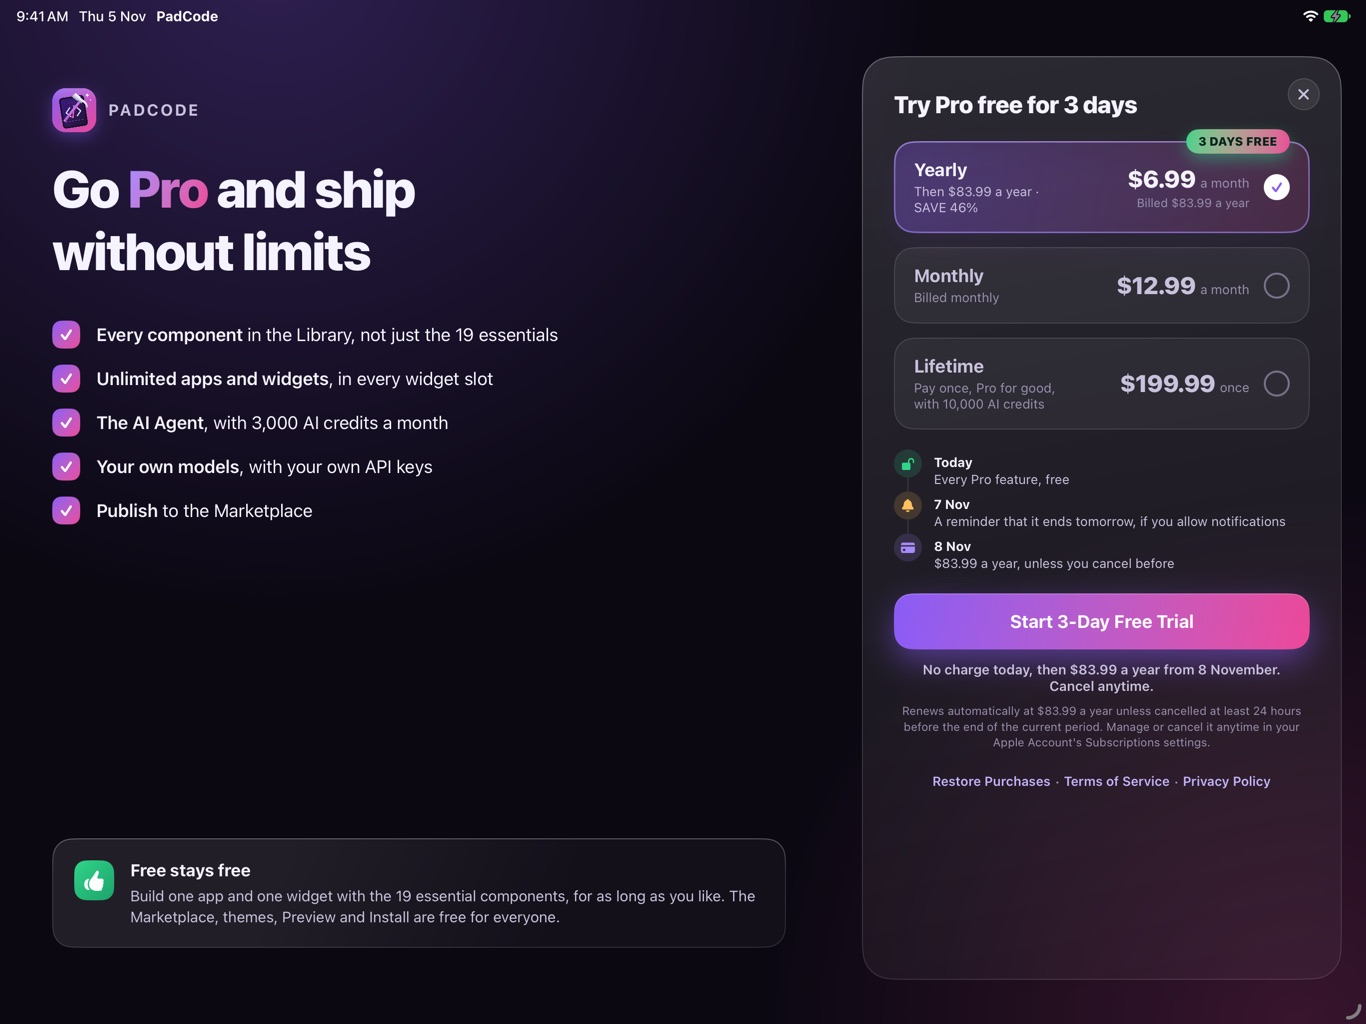
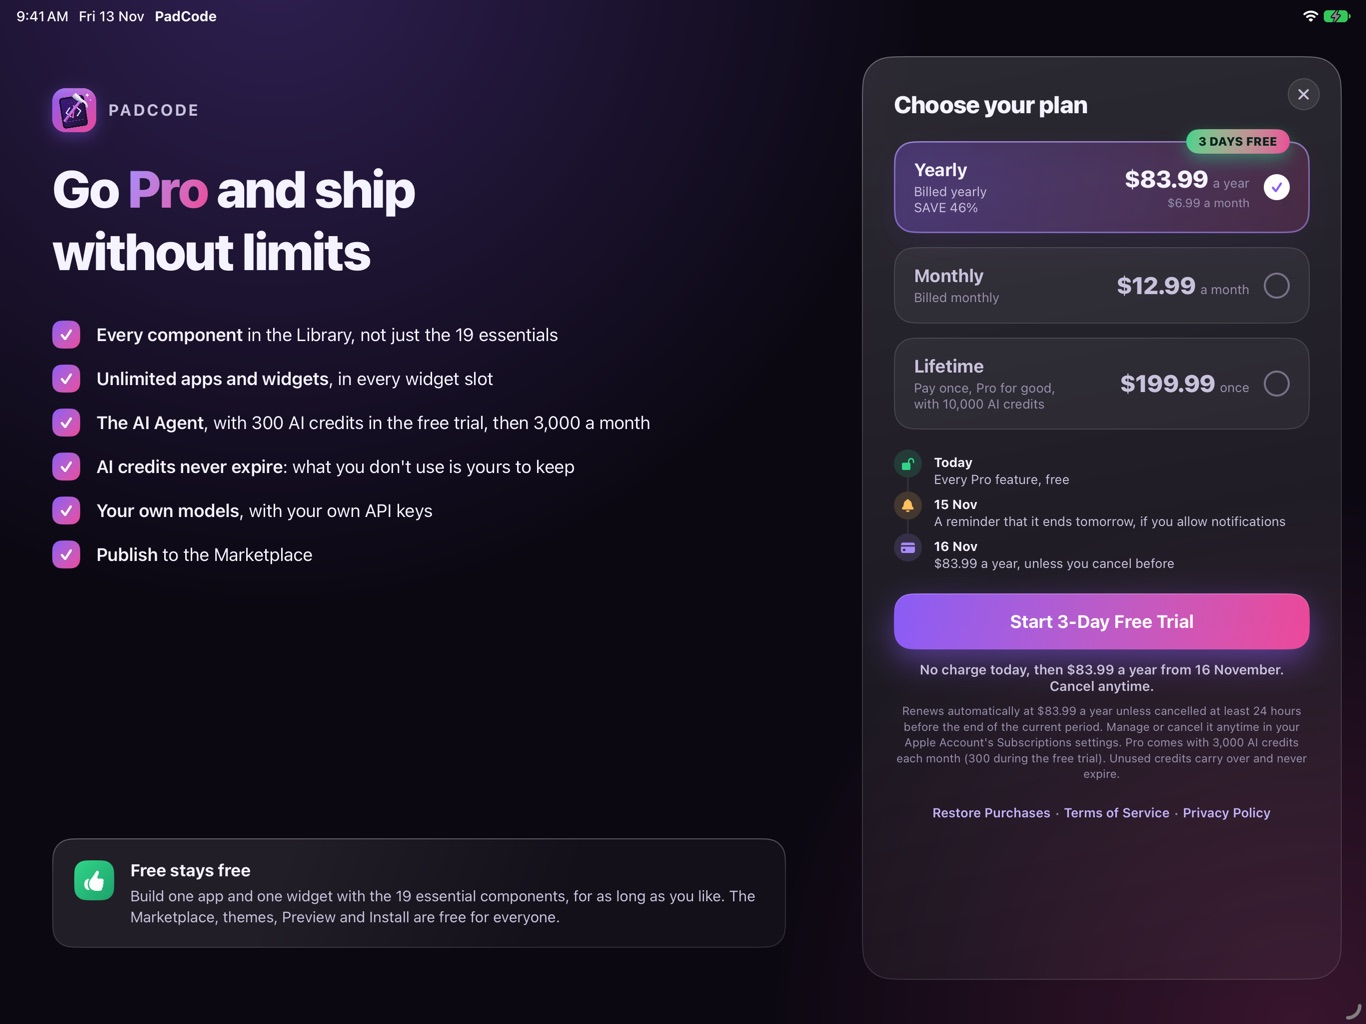
padcode.dev from padcode-docs@88bbd84

diff --git a/get-started/plans-and-billing/index.html b/get-started/plans-and-billing/index.html
@@ -61,18 +61,18 @@
 <p>Free for everyone, on any plan: browsing the Marketplace and getting from it, themes and the Theme Builder, Preview, Install and the tutorials.</p>
 <p><strong>The 19 essentials</strong> are <strong>Text</strong>, <strong>Label</strong>, <strong>Text Field</strong>, <strong>Button</strong>, <strong>Switch</strong>, <strong>Column</strong>, <strong>Row</strong>, <strong>Layers</strong>, <strong>Spacer</strong>, <strong>Divider</strong>, <strong>Scroll Area</strong>, <strong>List</strong>, <strong>Repeater</strong>, <strong>Image</strong>, <strong>Rectangle</strong>, <strong>Rounded Rectangle</strong>, <strong>Circle</strong>, <strong>Capsule</strong> and <strong>Color</strong>. On Free, every other tile in the Library has a <strong>PRO</strong> badge. See <a href="/components/">Components</a>.</p>
 <h2 id="where-pro-comes-up"><a class="anchor" href="#where-pro-comes-up" aria-label="Link to this section">#</a>Where Pro comes up</h2>
-<ul><li><strong>After you sign up</strong>, PadCode shows the plans, with <strong>Yearly</strong> chosen. <strong>✕</strong> closes them, and you carry on with Free.</li><li><strong>When you reach for something that's Pro</strong>, a sheet says why, over your work: a Pro component (from the Library, or inside a saved component, a paste or a duplicate), <strong>Agent Mode</strong> (✦, ⌘I or the <strong>⋯</strong> menu), <strong>Build with AI</strong>, writing a formula with AI, a second app or widget (<strong>New App</strong>, a template, <strong>Get</strong> in the Marketplace, <strong>Duplicate</strong>, or a .padcode or .padwidget file), a second widget slot, <strong>Create with Image Playground</strong> in the icon designer when you <a href="/test-and-ship/install/">install</a> an app, or <strong>Publish</strong>. It offers Pro Yearly with its trial; <strong>See All Plans</strong> shows the rest, and <strong>Not Now</strong> goes back.</li><li><strong>Settings › Plan &amp; Billing</strong>, any time: see <a href="#plan-and-billing">Plan &amp; Billing</a>.</li></ul>
+<ul><li><strong>After you sign up</strong>, PadCode shows the plans, with <strong>Yearly</strong> chosen. What Pro includes says the AI credits of the plan you choose. <strong>✕</strong> closes them, and you carry on with Free.</li><li><strong>When you reach for something that's Pro</strong>, a sheet says why, over your work: a Pro component (from the Library, or inside a saved component, a paste or a duplicate), <strong>Agent Mode</strong> (✦, ⌘I or the <strong>⋯</strong> menu), <strong>Build with AI</strong>, writing a formula with AI, a second app or widget (<strong>New App</strong>, a template, <strong>Get</strong> in the Marketplace, <strong>Duplicate</strong>, or a .padcode or .padwidget file), a second widget slot, <strong>Create with Image Playground</strong> in the icon designer when you <a href="/test-and-ship/install/">install</a> an app, or <strong>Publish</strong>. It offers Pro Yearly with its trial; <strong>See All Plans</strong> shows the rest, and <strong>Not Now</strong> goes back.</li><li><strong>Settings › Plan &amp; Billing</strong>, any time: see <a href="#plan-and-billing">Plan &amp; Billing</a>.</li></ul>
 <p>On Free, <strong>New App</strong> says so before you create a second app, with <strong>See Pro</strong> in place of <strong>Create</strong>. Your app stays yours, and so does everything else you made: when a plan ends, nothing is deleted, and you just can't add more than Free allows.</p>
 <a id="the-free-trial"></a>
 <h2 id="the-free-trial"><a class="anchor" href="#the-free-trial" aria-label="Link to this section">#</a>The free trial</h2>
-<p>Pro Yearly starts with 3 days free, once for each Apple Account. While Yearly is chosen, the plans say <strong>Try Pro free for 3 days</strong>, Yearly is marked <strong>3 DAYS FREE</strong>, and a timeline shows what happens when: today, every Pro feature; the day before the trial ends, a reminder, if you allow notifications; and the day it ends, the first charge, unless you cancel before.</p>
+<p>Pro Yearly starts with 3 days free, once for each Apple Account. Yearly is marked <strong>3 DAYS FREE</strong>, with its price for the year and what that comes to a month, and while it's chosen a timeline shows what happens when: today, every Pro feature; the day before the trial ends, a reminder, if you allow notifications; and the day it ends, the first charge, unless you cancel before.</p>
 <ol><li>Choose <strong>Yearly</strong> and tap <strong>Start 3-Day Free Trial</strong>.</li><li>Confirm with the App Store. Nothing is charged today: the screen says when the first payment is, for example "No charge today, then … a year from 7 November".</li><li>If PadCode hasn't asked before, it asks whether it may send notifications. If you allow them, it reminds you the day before the trial ends.</li></ol>
 <p>During the trial you have 300 AI credits. When it ends, Pro Yearly starts and the App Store charges a year's price, unless you cancel at least 24 hours before. See <a href="#cancel">Cancel</a>.</p>
 <a id="ai-credits"></a>
 <h2 id="ai-credits"><a class="anchor" href="#ai-credits" aria-label="Link to this section">#</a>AI credits</h2>
 <p>The AI Agent spends AI credits when it builds with one of PadCode's models: each request costs what the model charged for it, so a stronger model costs more. Building a small app takes about:</p>
 <div class="table-wrap"><table><thead><tr><th>Model</th><th>AI credits for a small app</th></tr></thead><tbody><tr><td><strong>Kimi K3.1 Pro</strong></td><td>About 200</td></tr><tr><td><strong>Qwen 3.7 Plus</strong></td><td>About 45</td></tr><tr><td><strong>DeepSeek V4.1 Flash</strong></td><td>About 10</td></tr><tr><td><strong>GLM 5.3 Flash</strong></td><td>About 1 for a tweak; it isn't up to whole apps</td></tr></tbody></table></div>
-<ul><li><strong>Pro Monthly</strong> and <strong>Pro Yearly</strong> come with 3,000 AI credits a month. They start again a month after the last time, and what's left doesn't carry over.</li><li><strong>Credit packs</strong> (1,000, 3,500 or 9,000 AI credits) are bought once and never expire. They're used after the month's allowance.</li><li><strong>Lifetime</strong> comes with 10,000 AI credits once, which work like a pack's.</li><li><strong>Your own models</strong> don't use AI credits: their providers bill you. See <a href="/build/ai-agent/#model-and-usage">The AI Agent</a>.</li></ul>
+<ul><li><strong>Pro Monthly</strong> and <strong>Pro Yearly</strong> come with 3,000 AI credits a month, starting again a month after the last time. What a month leaves unused carries over: AI credits never expire.</li><li><strong>Credit packs</strong> (1,000, 3,500 or 9,000 AI credits) are bought once and never expire. They're used after the month's allowance, with what earlier months left.</li><li><strong>Lifetime</strong> comes with 10,000 AI credits once, which work like a pack's.</li><li>The AI Agent uses credits while you're on Pro. If your plan ends, the credits you saved wait for you.</li><li><strong>Your own models</strong> don't use AI credits: their providers bill you. See <a href="/build/ai-agent/#model-and-usage">The AI Agent</a>.</li></ul>
 <p>What's left shows in three places: <strong>Usage</strong>, under the AI Agent's message box; the <strong>AI Agent</strong> screen; and Plan &amp; Billing.</p>
 <a id="top-up"></a>
 <h2 id="top-up"><a class="anchor" href="#top-up" aria-label="Link to this section">#</a>Top Up</h2>
@@ -89,7 +89,7 @@
 <a id="plan-and-billing"></a>
 <h2 id="plan--billing"><a class="anchor" href="#plan--billing" aria-label="Link to this section">#</a>Plan &amp; Billing</h2>
 <p>Open <strong>Settings</strong> and tap <strong>Plan &amp; Billing</strong>. It has:</p>
-<div class="table-wrap"><table><thead><tr><th>Section</th><th>What's there</th></tr></thead><tbody><tr><td><strong>Your plan</strong></td><td>Your plan, and where it is: <strong>FREE</strong>; <strong>TRIAL</strong>, with when it ends; <strong>ACTIVE</strong>, with when it renews; <strong>ENDING</strong>, with when it ends, if you cancelled; <strong>LIFETIME</strong>; or <strong>PAYMENT ISSUE</strong>, when the App Store couldn't charge you and is trying again.</td></tr><tr><td><strong>AI credits</strong></td><td>The credits left, this month's allowance as a bar, credits from packs, when the allowance starts again, <strong>Top Up</strong> and <strong>AI Agent</strong>. On Free, it says the AI Agent is part of Pro, with <strong>See Plans</strong>.</td></tr><tr><td><strong>Usage</strong></td><td>The credits the AI Agent used each day, as bars (tap a day for its credits and requests), and by model. Only on a paid plan.</td></tr><tr><td><strong>Plans</strong></td><td>Free and Pro compared, then each plan with its price. <strong>Choose</strong> (or <strong>Try Free</strong>, for Yearly's trial) buys it; yours says <strong>Current</strong>.</td></tr><tr><td><strong>Manage</strong></td><td><strong>Restore Purchases</strong>; on Pro Monthly or Yearly, <strong>Manage Subscription</strong> and how to cancel.</td></tr></tbody></table></div>
+<div class="table-wrap"><table><thead><tr><th>Section</th><th>What's there</th></tr></thead><tbody><tr><td><strong>Your plan</strong></td><td>Your plan, and where it is: <strong>FREE</strong>; <strong>TRIAL</strong>, with when it ends; <strong>ACTIVE</strong>, with when it renews; <strong>ENDING</strong>, with when it ends, if you cancelled; <strong>LIFETIME</strong>; or <strong>PAYMENT ISSUE</strong>, when the App Store couldn't charge you and is trying again.</td></tr><tr><td><strong>AI credits</strong></td><td>The credits left, this month's allowance as a bar, the credits that never expire (carried over and from packs), when the allowance starts again, <strong>Top Up</strong> and <strong>AI Agent</strong>. On Free, it says the AI Agent is part of Pro, with <strong>See Plans</strong>.</td></tr><tr><td><strong>Usage</strong></td><td>The credits the AI Agent used each day, as bars (tap a day for its credits and requests), and by model. Only on a paid plan.</td></tr><tr><td><strong>Plans</strong></td><td>Free and Pro compared, then each plan with its price. <strong>Choose</strong> (or <strong>Try Free</strong>, for Yearly's trial) buys it; yours says <strong>Current</strong>.</td></tr><tr><td><strong>Manage</strong></td><td><strong>Restore Purchases</strong>; on Pro Monthly or Yearly, <strong>Manage Subscription</strong> and how to cancel.</td></tr></tbody></table></div>
 <p>At the bottom are <strong>Restore Purchases</strong>, the <strong>Terms of Service</strong> and the <strong>Privacy Policy</strong>.</p>
 <figure><button class="zoom" type="button" aria-label="Open the picture: Plan &amp; Billing: Pro Yearly, the AI credits left, and Usage by day and by model."><img src="/images/start/plan-and-billing.jpg" alt="Plan &amp; Billing: Pro Yearly, the AI credits left, and Usage by day and by model." loading="lazy" decoding="async"></button><figcaption>Plan &amp; Billing: Pro Yearly, the AI credits left, and Usage by day and by model.</figcaption></figure>
 <h2 id="restore-purchases"><a class="anchor" href="#restore-purchases" aria-label="Link to this section">#</a>Restore purchases</h2>

diff --git a/terms-and-conditions/index.html b/terms-and-conditions/index.html
@@ -49,7 +49,7 @@
     <nav class="crumbs" aria-label="Breadcrumb"><a href="/">Docs</a><span aria-hidden="true">/</span><span>Legal</span></nav>
     <h1>Terms of Service</h1>
     <div class="content">
-<p>Effective November 4, 2026.</p>
+<p>Effective November 13, 2026.</p>
 <p>These terms apply to PadCode, the app for building apps on iPad, and the services that come with it (together, "PadCode"), made by Junaid Tariq ("we", "us"). By using PadCode you agree to them, so please read them.</p>
 <h2 id="who-can-use-padcode"><a class="anchor" href="#who-can-use-padcode" aria-label="Link to this section">#</a>Who can use PadCode</h2>
 <p>You must be at least 16, or have a parent or guardian agree to these terms for you. You're responsible for your account and for what happens with it, so keep your sign-in safe.</p>
@@ -63,7 +63,7 @@
 <p>The AI Agent builds and changes apps for you with AI models. What it makes can be wrong, incomplete or not what you meant, so check it before you rely on it or share it. Don't ask it for anything unlawful or harmful. Your plan sets how much you can use it. When you add your own models, your requests go to that provider under its terms, and it bills you.</p>
 <h2 id="plans-and-payments"><a class="anchor" href="#plans-and-payments" aria-label="Link to this section">#</a>Plans and payments</h2>
 <p>Paid plans are bought through Apple's App Store and renew until you cancel. Apple charges you, and you manage or cancel your subscription in your Apple account's settings; refunds are Apple's to give. We tell you a plan's price before you buy, and may change what each plan includes, telling you first when it affects you.</p>
-<ul><li><strong>Subscriptions</strong> (Pro Monthly, Pro Yearly) renew automatically at the price shown unless you cancel at least 24 hours before the end of the current period. Cancelling keeps Pro until that period ends.</li><li><strong>The free trial</strong> of Pro Yearly costs nothing; when it ends, Pro Yearly starts and you're charged, unless you cancel at least 24 hours before. Each Apple account can have it once.</li><li><strong>Lifetime</strong> is bought once and doesn't renew.</li><li><strong>AI credits</strong> pay for the AI Agent's use of PadCode's models; each request uses some, depending on what it costs to run. A subscription's monthly allowance starts again each month and doesn't carry over. Credit packs and Lifetime's credits are bought once, never expire while you have your account, and are used after the monthly allowance. Credits have no cash value, can't be moved to another account, and end when your account is deleted.</li></ul>
+<ul><li><strong>Subscriptions</strong> (Pro Monthly, Pro Yearly) renew automatically at the price shown unless you cancel at least 24 hours before the end of the current period. Cancelling keeps Pro until that period ends.</li><li><strong>The free trial</strong> of Pro Yearly costs nothing; when it ends, Pro Yearly starts and you're charged, unless you cancel at least 24 hours before. Each Apple account can have it once.</li><li><strong>Lifetime</strong> is bought once and doesn't renew.</li><li><strong>AI credits</strong> pay for the AI Agent's use of PadCode's models; each request uses some, depending on what it costs to run. A subscription adds its monthly allowance each month, and what a month leaves unused carries over. Credit packs and Lifetime's credits are bought once. No credits expire while you have your account; the AI Agent uses them while you're on a paid plan, the month's allowance first. Credits have no cash value, can't be moved to another account, and end when your account is deleted.</li></ul>
 <h2 id="ending"><a class="anchor" href="#ending" aria-label="Link to this section">#</a>Ending</h2>
 <p>You can stop using PadCode and delete your account at any time in Settings › Profile. We may suspend or end your access if you break these terms or the law, or put other people or PadCode at risk.</p>
 <h2 id="warranties-and-liability"><a class="anchor" href="#warranties-and-liability" aria-label="Link to this section">#</a>Warranties and liability</h2>

diff --git a/support/index.html b/support/index.html
@@ -54,7 +54,7 @@
 <h2 id="getting-started"><a class="anchor" href="#getting-started" aria-label="Link to this section">#</a>Getting started</h2>
 <ul><li><strong>Settings</strong> › <strong>Tutorials</strong> has guided tutorials and tours. Each one shows you where to tap.</li><li><strong>Home</strong> › <strong>New App</strong> starts a blank app; <strong>Build with AI</strong> starts one with the AI Agent; <strong>From a Template</strong> starts from a finished app.</li><li>The Marketplace has free apps, widgets, themes and components to start from.</li></ul>
 <h2 id="plans-and-purchases"><a class="anchor" href="#plans-and-purchases" aria-label="Link to this section">#</a>Plans and purchases</h2>
-<ul><li><strong>Restore your purchases</strong> on a new iPad or after reinstalling: <strong>Settings</strong> › <strong>Plan &amp; Billing</strong> › <strong>Restore Purchases</strong>. Use the same Apple Account you bought with.</li><li><strong>Cancel or change a subscription</strong>: <strong>Settings</strong> › <strong>Plan &amp; Billing</strong> › <strong>Manage Subscription</strong>, or your iPad's <strong>Settings</strong> › your name › <strong>Subscriptions</strong>. Cancel at least 24 hours before it renews. Pro stays until the end of the period you've paid for.</li><li><strong>The free trial</strong> comes with Pro Yearly, once per Apple Account. Cancel at least 24 hours before it ends and you pay nothing.</li><li><strong>AI credits</strong> pay for the AI Agent's work. Pro comes with 3,000 a month; credit packs add more, are used after the month's credits and don't expire. Lifetime comes with 10,000 once; after those, connect your own models with your own API keys in <strong>AI Agent</strong>.</li><li><strong>Refunds</strong> are Apple's to give, at <a href="https://reportaproblem.apple.com" target="_blank" rel="noopener">reportaproblem.apple.com</a>.</li></ul>
+<ul><li><strong>Restore your purchases</strong> on a new iPad or after reinstalling: <strong>Settings</strong> › <strong>Plan &amp; Billing</strong> › <strong>Restore Purchases</strong>. Use the same Apple Account you bought with.</li><li><strong>Cancel or change a subscription</strong>: <strong>Settings</strong> › <strong>Plan &amp; Billing</strong> › <strong>Manage Subscription</strong>, or your iPad's <strong>Settings</strong> › your name › <strong>Subscriptions</strong>. Cancel at least 24 hours before it renews. Pro stays until the end of the period you've paid for.</li><li><strong>The free trial</strong> comes with Pro Yearly, once per Apple Account. Cancel at least 24 hours before it ends and you pay nothing.</li><li><strong>AI credits</strong> pay for the AI Agent's work. Pro comes with 3,000 a month, and what you don't use carries over; credit packs add more, used after the month's credits. No credits expire. Lifetime comes with 10,000 once; after those, connect your own models with your own API keys in <strong>AI Agent</strong>.</li><li><strong>Refunds</strong> are Apple's to give, at <a href="https://reportaproblem.apple.com" target="_blank" rel="noopener">reportaproblem.apple.com</a>.</li></ul>
 <h2 id="your-account-and-your-data"><a class="anchor" href="#your-account-and-your-data" aria-label="Link to this section">#</a>Your account and your data</h2>
 <ul><li>Your projects live on your iPad, and in iCloud Drive if you turn on <strong>iCloud Sync</strong> in your Profile.</li><li><strong>Delete your account</strong> in <strong>Settings</strong> › your name › <strong>Delete Account</strong>. <a href="https://padcode.dev/delete-account/">What's deleted, and how to ask us instead</a>.</li><li>How we handle your data: the <a href="https://padcode.dev/privacy-policy/">Privacy Policy</a>.</li></ul>
 <h2 id="the-marketplace"><a class="anchor" href="#the-marketplace" aria-label="Link to this section">#</a>The Marketplace</h2>

diff --git a/build/ai-agent/index.html b/build/ai-agent/index.html
@@ -106,7 +106,7 @@
 <h3 id="out-of-ai-credits"><a class="anchor" href="#out-of-ai-credits" aria-label="Link to this section">#</a>Out of AI credits</h3>
 <p>When your AI credits run out, the agent stops and a sheet says <strong>You're out of AI credits</strong>. Buy a pack there, <strong>See Plans</strong> (on Lifetime or in the trial), or <strong>Use Your Own Model</strong> to carry on with your own key. See <a href="/get-started/plans-and-billing/#out-of-credits">When the AI Agent runs out</a>.</p>
 <h2 id="the-ai-agent-screen"><a class="anchor" href="#the-ai-agent-screen" aria-label="Link to this section">#</a>The AI Agent screen</h2>
-<p><strong>AI Agent</strong> in the sidebar shows your plan's AI credits: how many are left, this month's allowance as a bar, credits from packs, and when the allowance starts again, with <strong>Top Up</strong>. On Free, it says what Pro adds, with <strong>See Plans</strong>. On Pro, <strong>Where they went</strong> shows the credits the agent used each day, as bars (tap a day for its number), and by model; <strong>Plan &amp; Billing</strong> opens <a href="/get-started/plans-and-billing/#plan-and-billing">Plan &amp; Billing</a>.</p>
+<p><strong>AI Agent</strong> in the sidebar shows your plan's AI credits: how many are left, this month's allowance as a bar, the credits that never expire (carried over and from packs), and when the allowance starts again, with <strong>Top Up</strong>. On Free, it says what Pro adds, with <strong>See Plans</strong>. On Pro, <strong>Where they went</strong> shows the credits the agent used each day, as bars (tap a day for its number), and by model; <strong>Plan &amp; Billing</strong> opens <a href="/get-started/plans-and-billing/#plan-and-billing">Plan &amp; Billing</a>.</p>
 <figure><button class="zoom" type="button" aria-label="Open the picture: The AI Agent screen: the AI credits left, this month&#x27;s allowance, and where they went by day and by model."><img src="/images/editor/ai-agent.jpg" alt="The AI Agent screen: the AI credits left, this month&#x27;s allowance, and where they went by day and by model." loading="lazy" decoding="async"></button><figcaption>The AI Agent screen: the AI credits left, this month's allowance, and where they went by day and by model.</figcaption></figure>
 <h3 id="your-own-models"><a class="anchor" href="#your-own-models" aria-label="Link to this section">#</a>Your own models</h3>
 <p>Under <strong>Your own models</strong>, <strong>Add Model</strong> uses your own API key with Claude, OpenAI, DeepSeek, OpenRouter, Gemini, Mistral, Grok, Kimi, or any service with an OpenAI-style chat API:</p>
